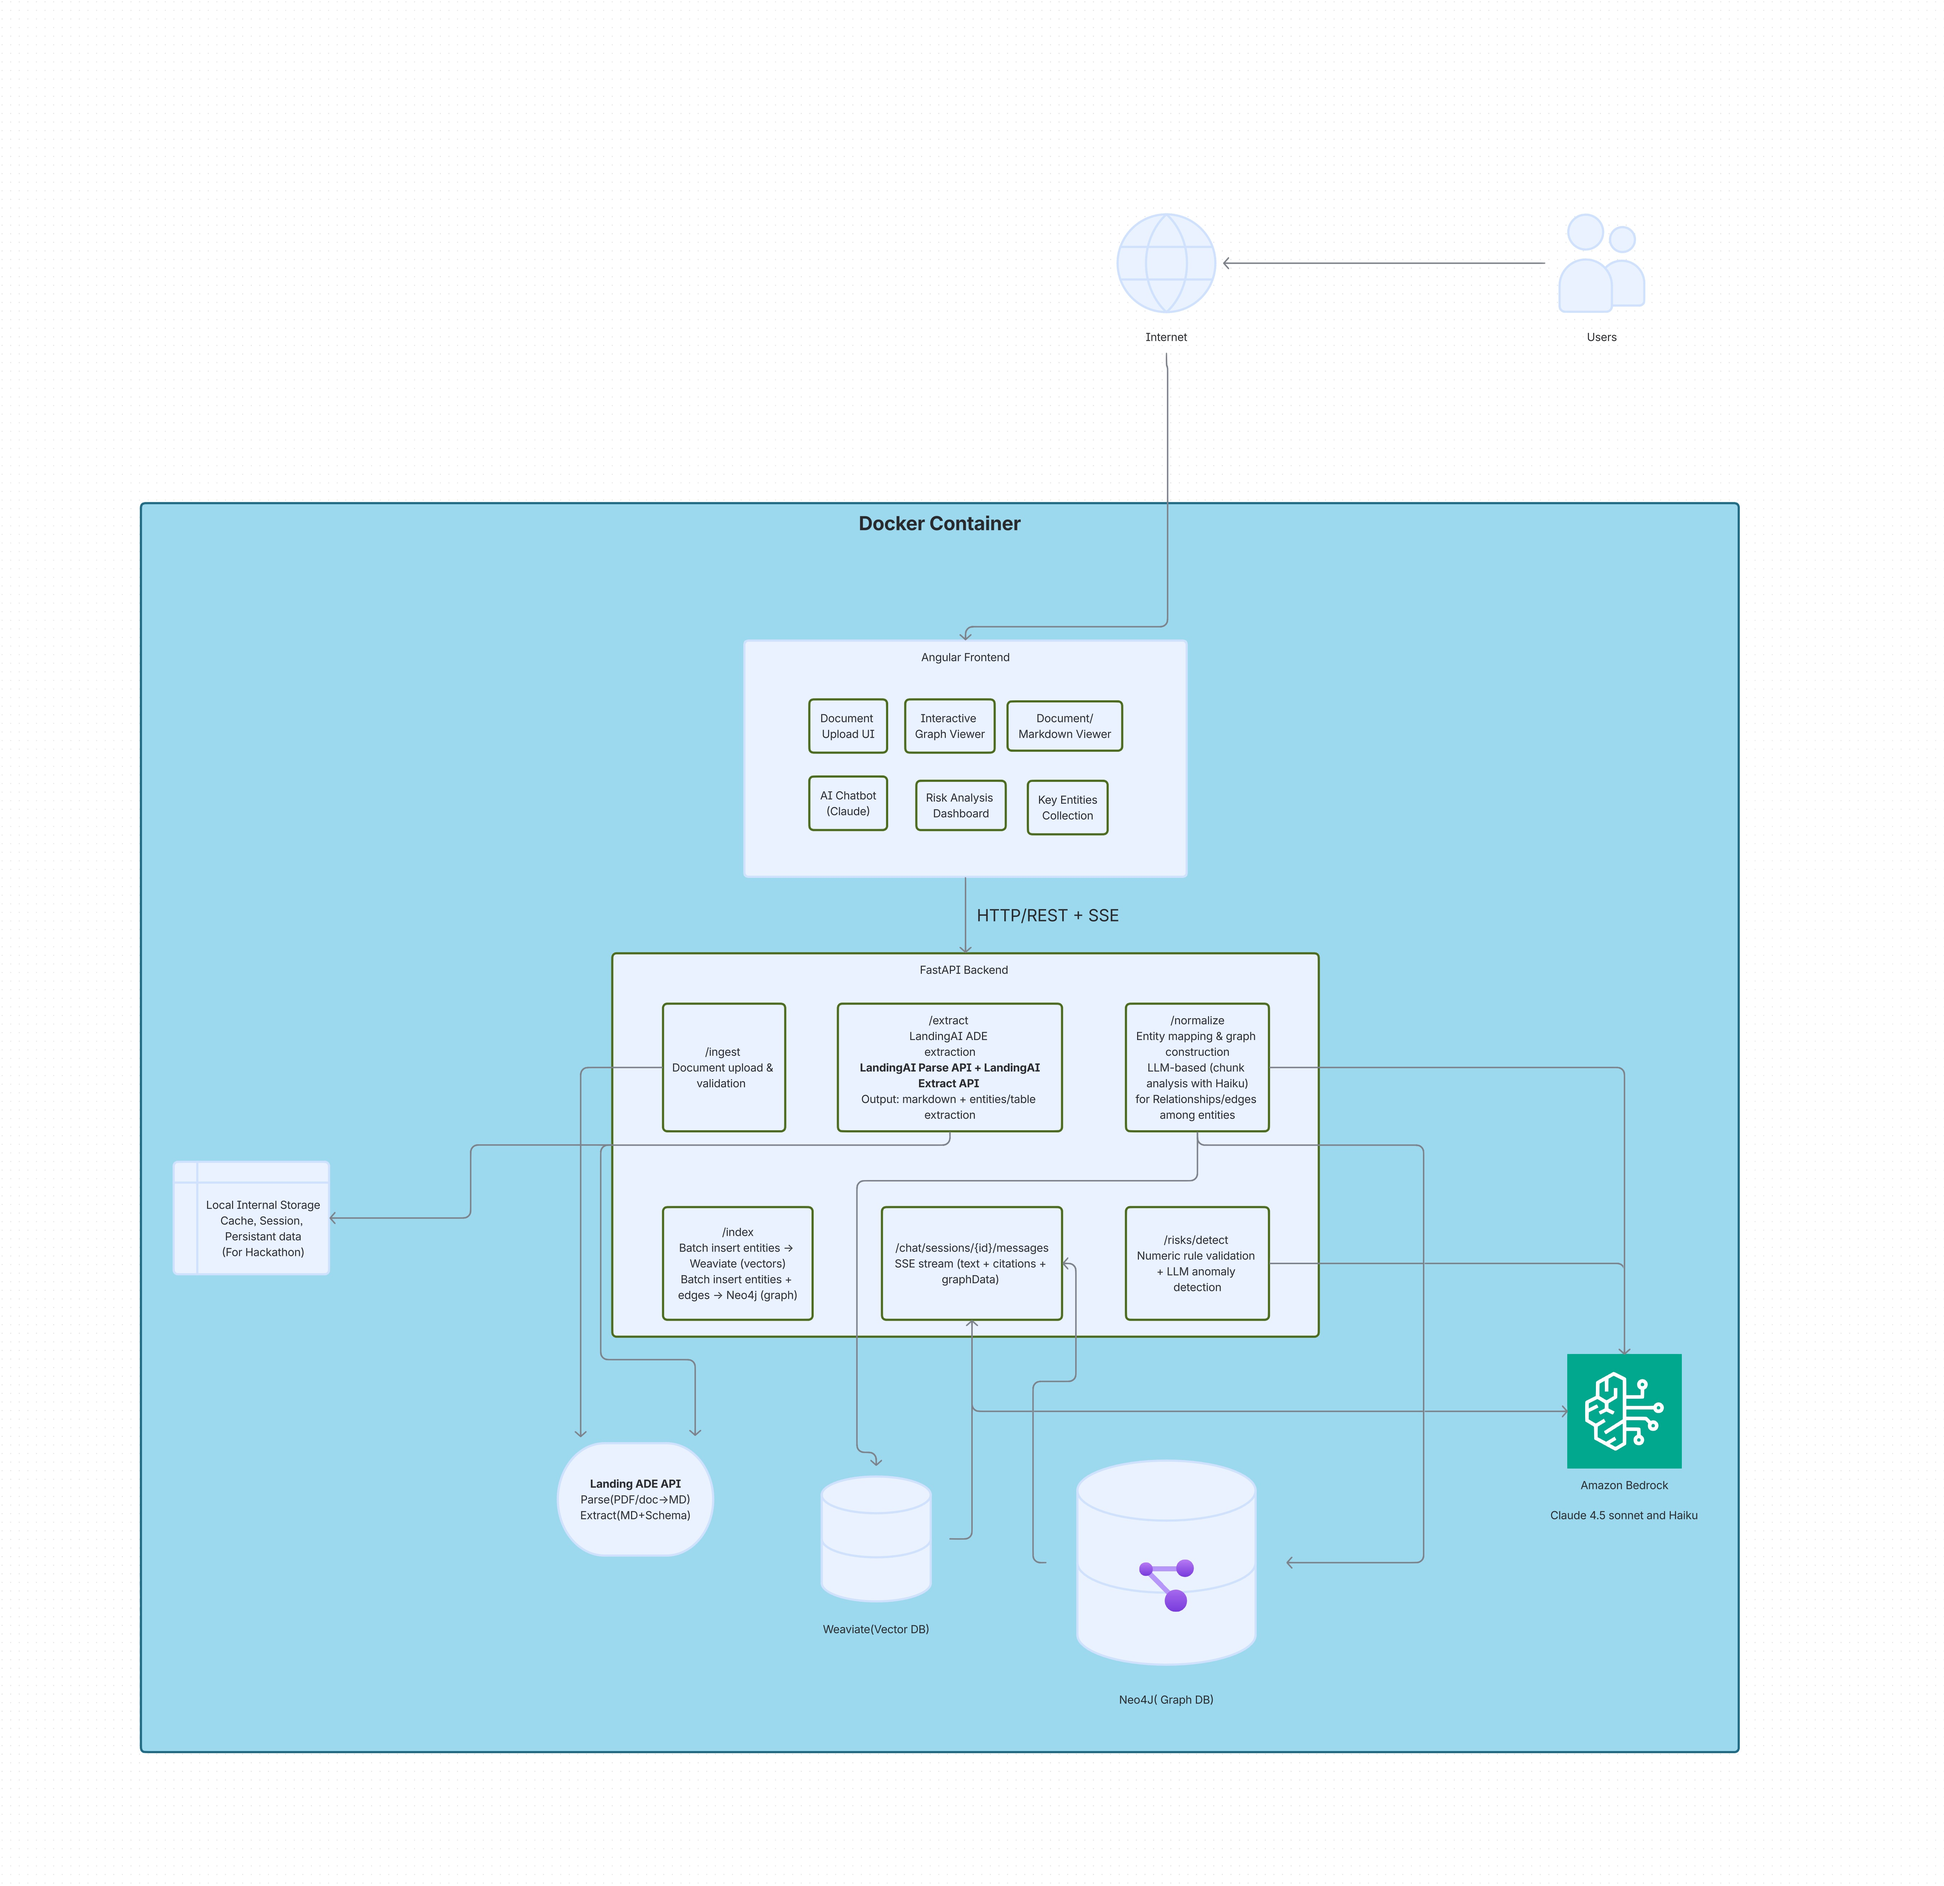
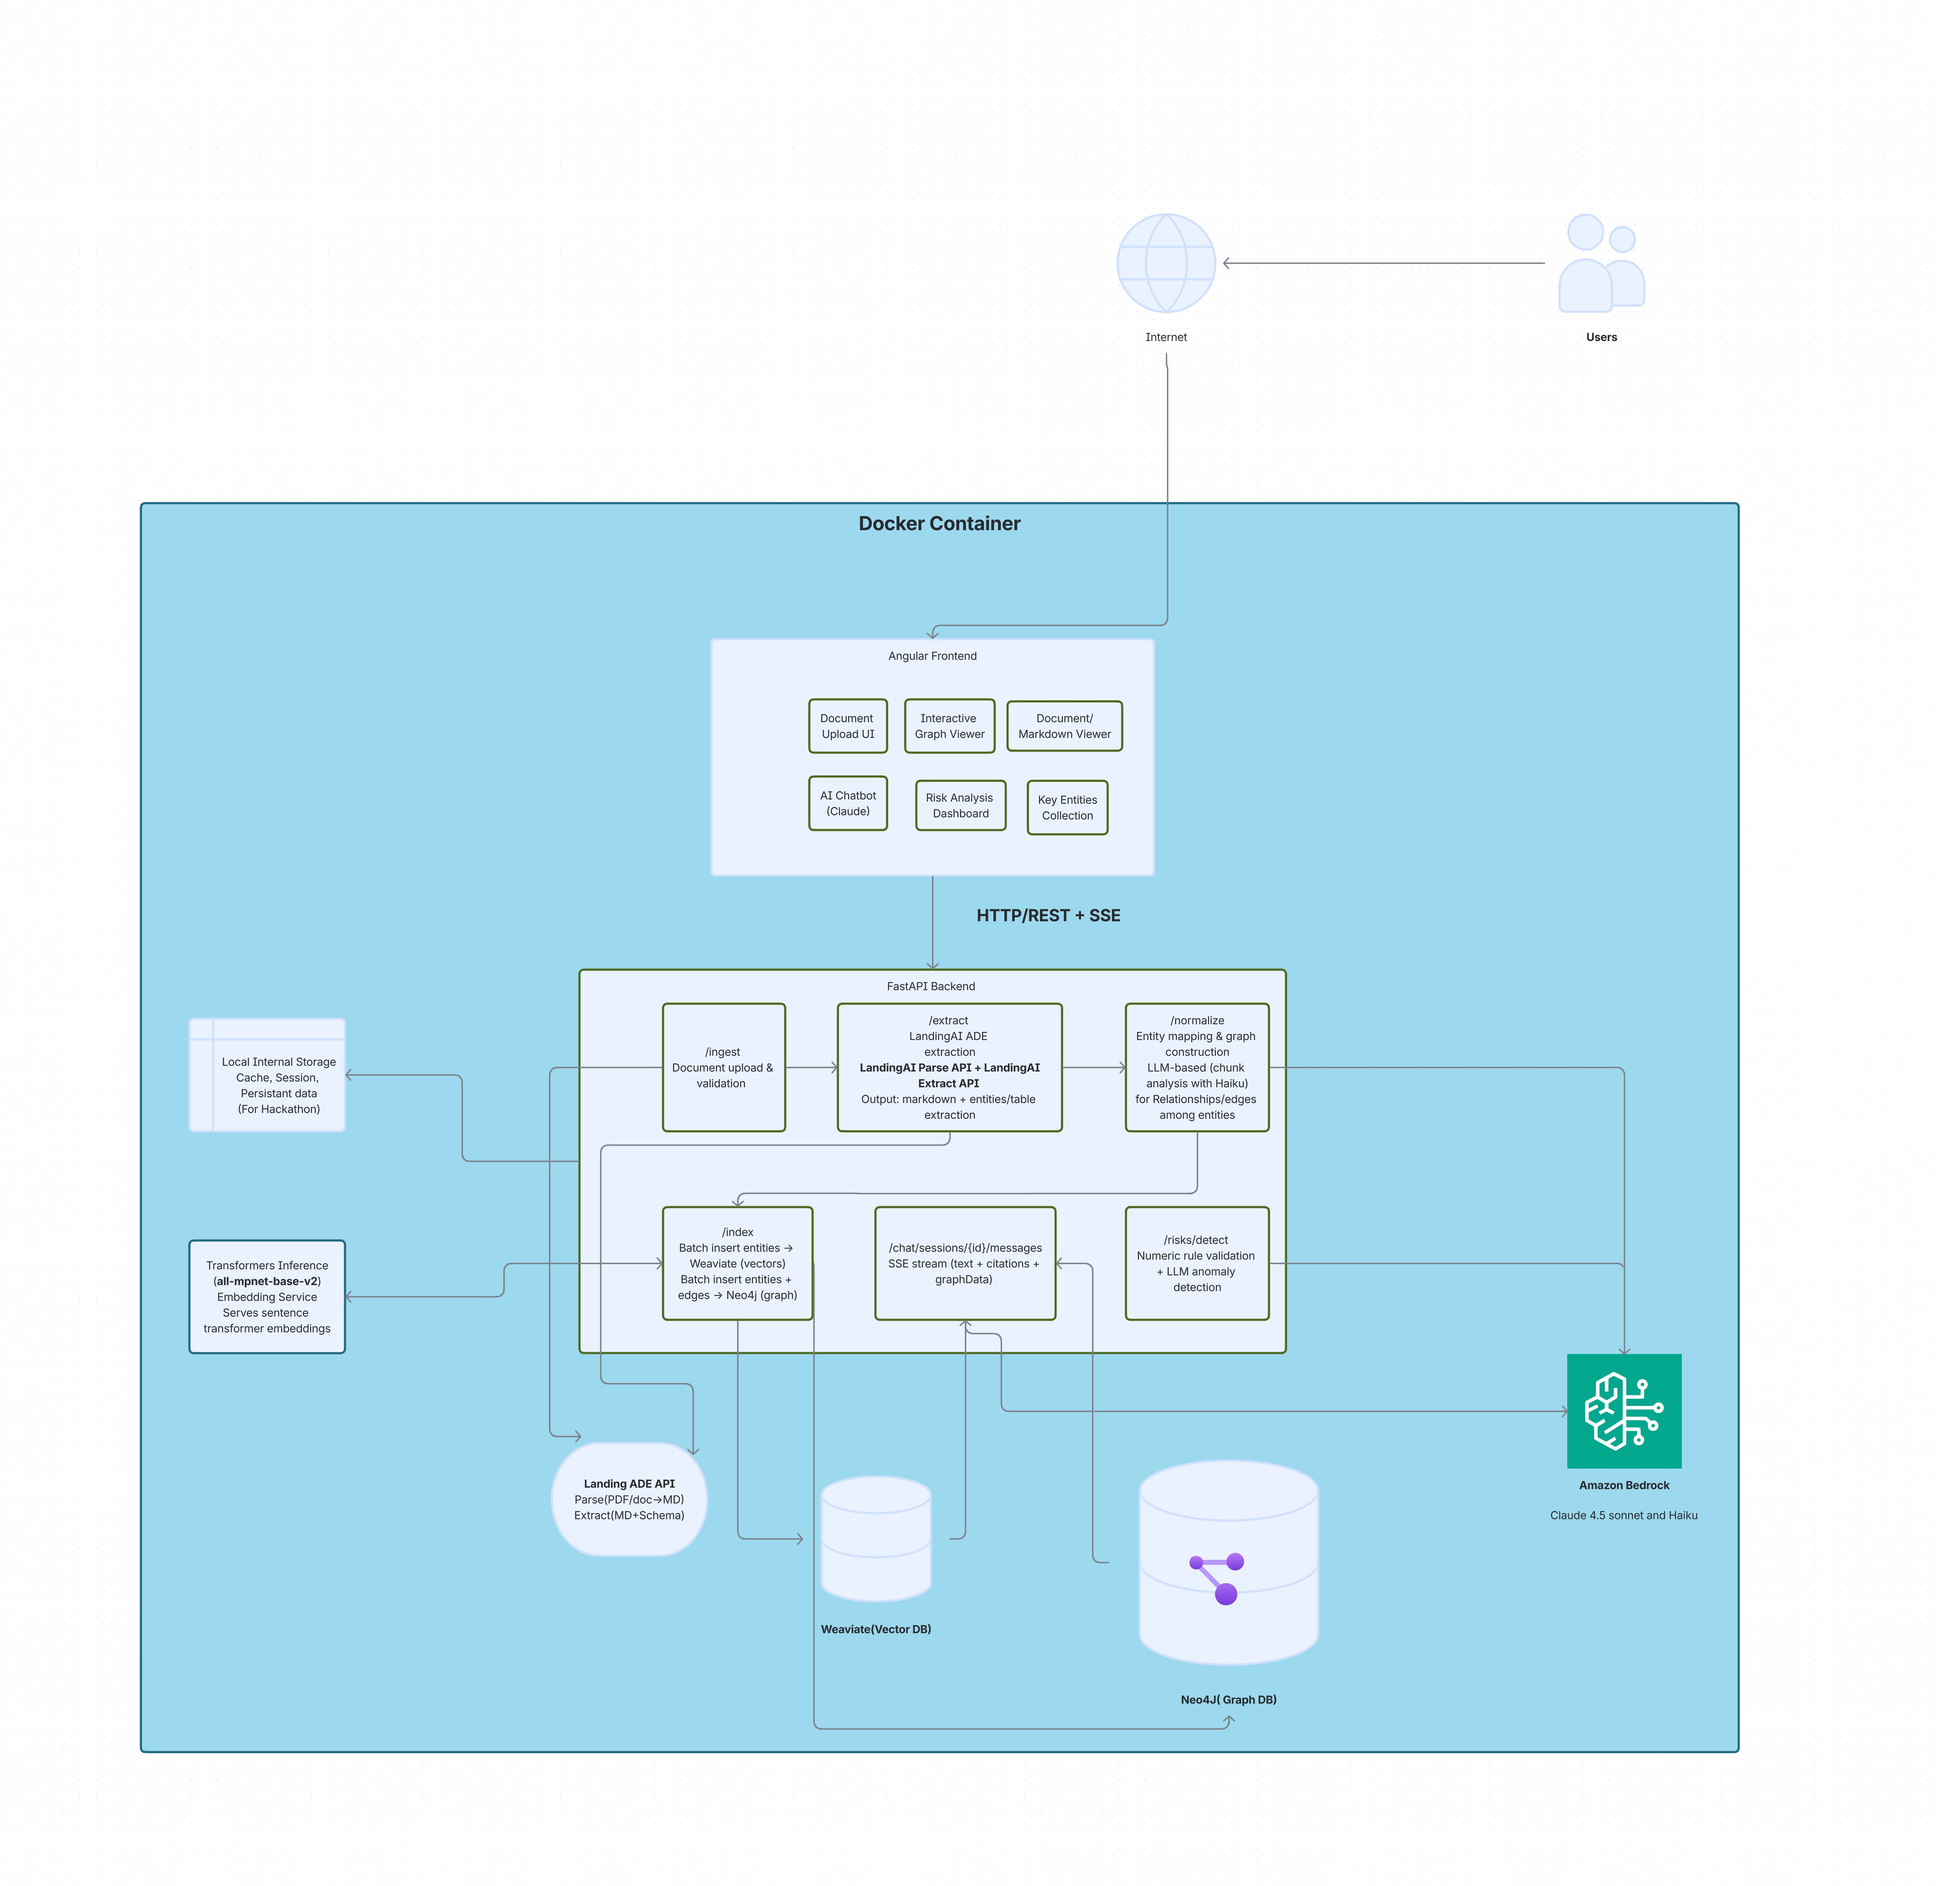
updated arc diagram

diff --git a/docs/ARCHITECTURE.md b/docs/ARCHITECTURE.md
@@ -6,6 +6,7 @@ ArthaNethra is a **hybrid AI financial investigation platform** that combines:
 - **LandingAI's Agentic Document Extraction (ADE)** for structured data extraction
 - **AWS Bedrock (Claude 3)** for reasoning and explanations
 - **Vector databases (Weaviate)** for semantic search
+- **Sentence-transformers inference (all-mpnet-base-v2)** for local embedding generation
 - **Graph analytics** for relationship traversal
 - **Angular frontend** for interactive visualization
 
@@ -94,23 +95,24 @@ ArthaNethra is a **hybrid AI financial investigation platform** that combines:
 │  │  • ChatbotService          (multi-tool, streaming)                  │ │
 │  │  • AnalyticsService        (metric calculations)                    │ │
 │  │  • PersistenceService      (sessions, messages)                     │ │
+│  │  • EmbeddingService        (MPNet embeddings via transformers-inference)│ │
 │  └────────────────────────────────────────────────────────────────────┘ │
-└─────┬────────────┬────────────┬────────────┬────────────┬──────────────┘
-      │            │            │            │            │
-      ▼            ▼            ▼            ▼            ▼
-┌──────────┐  ┌──────────┐  ┌──────────┐  ┌──────────┐  ┌──────────┐
-│LandingAI │  │ Weaviate │  │  Neo4j   │  │   AWS    │  │  Local   │
-│   ADE    │  │ (Docker) │  │ (Docker) │  │ Bedrock  │  │   Disk   │
-│   API    │  │  Port    │  │  Ports   │  │ (Cloud)  │  │  (PDFs,  │
-│          │  │  8080    │  │7474,7687 │  │          │  │  Cache)  │
-│          │  │          │  │          │  │          │  │          │
-│ • Parse  │  │ • Vector │  │ • Cypher │  │ • Sonnet │  │ • uploads│
-│   (PDF→  │  │   Search │  │   Queries│  │   (Chat) │  │ • ade_   │
-│   MD)    │  │ • Embed- │  │ • Graph  │  │ • Haiku  │  │   cache  │
-│ • Extract│  │   dings  │  │   Algos  │  │   (Bulk) │  │ • session│
-│   (MD+   │  │ • Chunks │  │ • 38 Edge│  │ • Tool   │  │   data   │
-│   Schema)│  │          │  │   Types  │  │   Calling│  │          │
-└──────────┘  └──────────┘  └──────────┘  └──────────┘  └──────────┘
+└─────┬────────────┬────────────┬────────────┬────────────┬────────────┬──────────────┘
+      │            │            │            │            │            │
+      ▼            ▼            ▼            ▼            ▼            ▼
+┌──────────┐  ┌──────────┐  ┌──────────┐  ┌──────────────┐  ┌──────────┐  ┌──────────┐
+│LandingAI │  │ Weaviate │  │  Neo4j   │  │ Transformers │  │   AWS    │  │  Local   │
+│   ADE    │  │ (Docker) │  │ (Docker) │  │ Inference    │  │ Bedrock  │  │   Disk   │
+│   API    │  │  Port    │  │  Ports   │  │ (all-mpnet-  │  │ (Cloud)  │  │  (PDFs,  │
+│          │  │  8080    │  │7474,7687 │  │ base-v2)     │  │          │  │  Cache)  │
+│          │  │          │  │          │  │  Port 8081   │  │          │  │          │
+│ • Parse  │  │ • Vector │  │ • Cypher │  │ • Embedding  │  │ • Sonnet │  │ • uploads│
+│   (PDF→  │  │   Search │  │   Queries│  │   service    │  │   (Chat) │  │ • ade_   │
+│   MD)    │  │ • Embed- │  │ • Graph  │  │ • Serves     │  │ • Haiku  │  │   cache  │
+│ • Extract│  │   dings  │  │   Algos  │  │   sentence   │  │   (Bulk) │  │ • session│
+│   (MD+   │  │ • Chunks │  │ • 38 Edge│  │   transformer│  │ • Tool   │  │   data   │
+│   Schema)│  │          │  │   Types  │  │   embeddings │  │   Calling│  │          │
+└──────────┘  └──────────┘  └──────────┘  └──────────────┘  └──────────┘  └──────────┘
 
 ═══════════════════════════════════════════════════════════════════════
 
@@ -294,6 +296,11 @@ async def serve_pdf(document_id: str, page: int) -> FileResponse:
     Returns: PDF byte stream
     """
 ```
+
+- **Transformers Inference Service (all-mpnet-base-v2)**  
+  - Runs as a Docker sidecar (`semitechnologies/transformers-inference`)  
+  - Exposes sentence-transformer embeddings on port 8081  
+  - Weaviate calls it to embed document chunks and chat messages
 
 ---
 
